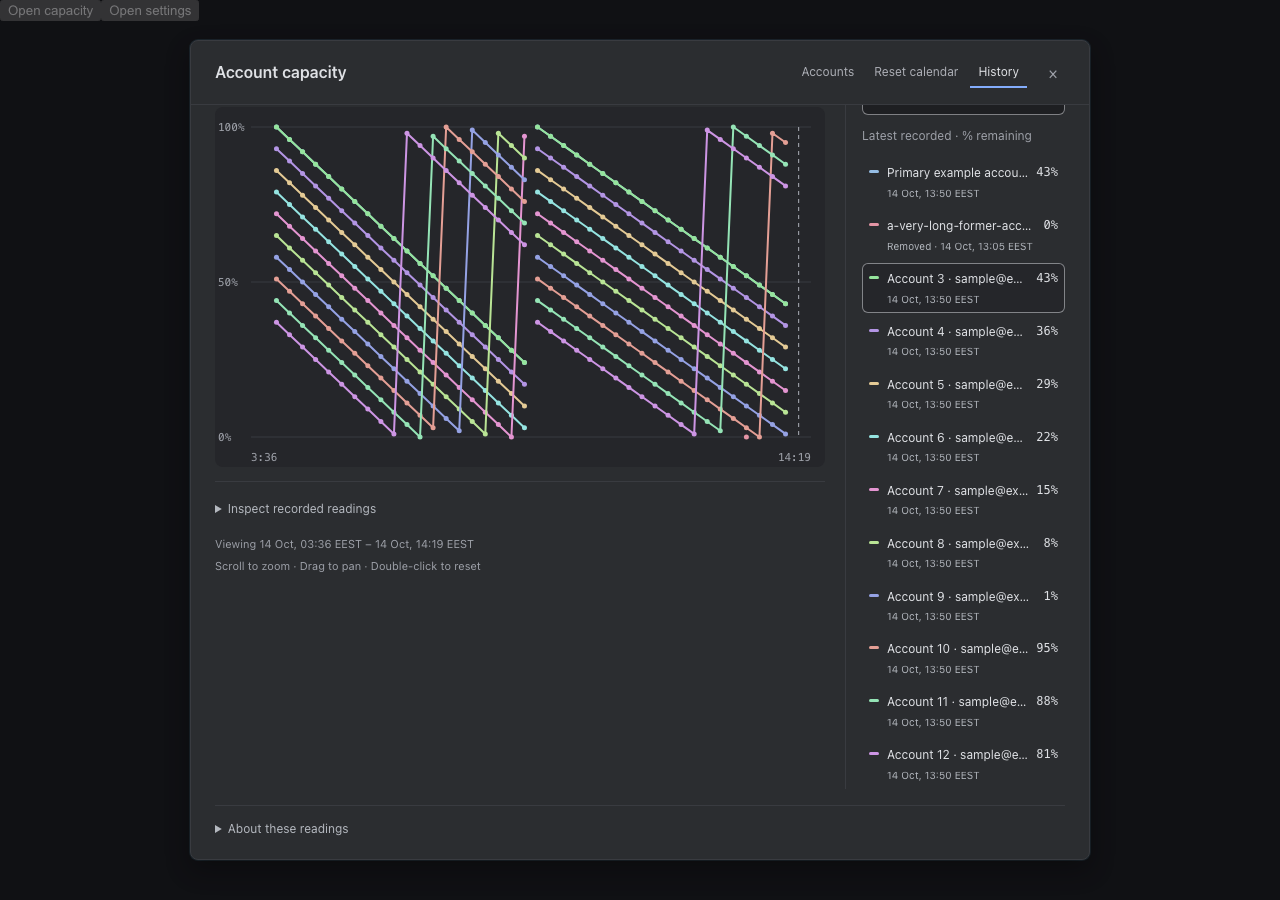
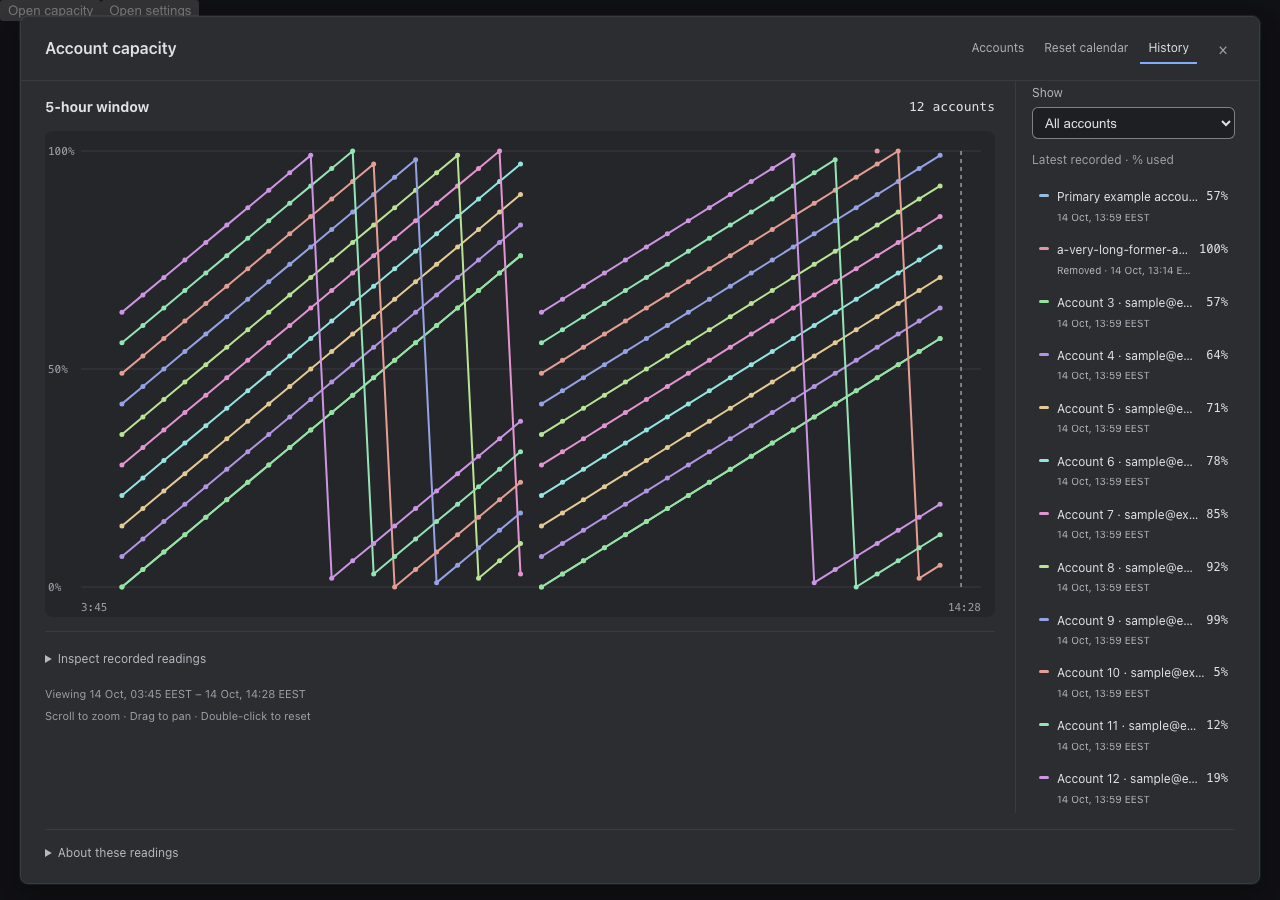
feat: give history charts more space
Widen the History dialog and adapt plot height to the viewport while restoring usage-consumed values throughout the studio. This gives account comparisons more room and makes 100 percent consistently mean exhausted capacity.

diff --git a/src/web/components/AccountHistoryView.tsx b/src/web/components/AccountHistoryView.tsx
@@ -40,12 +40,14 @@ function HistoryChart({
   const lastTap = useRef<{ x: number; y: number; at: number } | null>(null);
   const pointerKind = useRef("mouse");
   const [width, setWidth] = useState(750);
+  const [height, setHeight] = useState(440);
   useEffect(() => {
     const svg = chartRef.current;
     if (!svg) return;
-    const observer = new ResizeObserver(() =>
-      setWidth(Math.max(220, svg.clientWidth)),
-    );
+    const observer = new ResizeObserver(() => {
+      setWidth(Math.max(220, svg.clientWidth));
+      setHeight(Math.max(240, svg.clientHeight));
+    });
     observer.observe(svg);
     return () => observer.disconnect();
   }, []);
@@ -90,7 +92,7 @@ function HistoryChart({
   const tracked = hovered ?? (selected ? p : undefined);
   const visibleAccounts = new Set(values.map((p) => p.account.id)).size;
   const x = (t: number) => 36 + ((t - start) / (end - start)) * (width - 50);
-  const y = (used: number) => 20 + used * 3.1;
+  const y = (used: number) => height - 30 - (used / 100) * (height - 50);
   return (
     <section
       className="ah-chart"
@@ -102,18 +104,18 @@ function HistoryChart({
           {accounts.length > 1
             ? `${visibleAccounts} ${visibleAccounts === 1 ? "account" : "accounts"}`
             : w
-              ? `${100 - w.pct}% remaining`
+              ? `${w.pct}% used`
               : "No observations"}
         </span>
       </header>
-      <p className="ah-note">Capacity remaining</p>
+      <p className="ah-note">Capacity used</p>
       <div className="ah-plot-wrap">
         <svg
           ref={chartRef}
-          viewBox={`0 0 ${width} 360`}
+          viewBox={`0 0 ${width} ${height}`}
           role="group"
           tabIndex={0}
-          aria-label={`${window === "five_hour" ? "5-hour" : "7-day"} interactive capacity chart. Top is 100 percent remaining; bottom is zero remaining. Remaining capacity is 100 minus reported usage. Scroll to zoom, drag to pan, double-click to reset. Keyboard: plus or minus to zoom, left or right arrows to pan, zero to reset. Gaps indicate missing observations or changed reset windows.`}
+          aria-label={`${window === "five_hour" ? "5-hour" : "7-day"} interactive capacity chart. Top is 100 percent used (exhausted); bottom is zero used. Scroll to zoom, drag to pan, double-click to reset. Keyboard: plus or minus to zoom, left or right arrows to pan, zero to reset. Gaps indicate missing observations or changed reset windows.`}
           onDoubleClick={() => {
             if (pointerKind.current !== "touch") onReset();
           }}
@@ -243,7 +245,7 @@ function HistoryChart({
         >
           <defs>
             <clipPath id={clipId}>
-              <rect x="36" y="16" width={width - 50} height="318" />
+              <rect x="36" y="16" width={width - 50} height={height - 42} />
             </clipPath>
           </defs>
           {[0, 50, 100].map((v) => (
@@ -256,12 +258,12 @@ function HistoryChart({
                 className="ah-grid"
               />
               <text x="3" y={y(v) + 4}>
-                {100 - v}%
+                {v}%
               </text>
             </g>
           ))}
           {!accounts.some((a) => a.points.some((p) => p[window])) && (
-            <text x={width / 2} y="175" textAnchor="middle">
+            <text x={width / 2} y={height / 2} textAnchor="middle">
               No readings for this window
             </text>
           )}
@@ -281,7 +283,7 @@ function HistoryChart({
               x1={x(t * 1000)}
               x2={x(t * 1000)}
               y1="20"
-              y2="330"
+              y2={height - 30}
               className="ah-reset"
             >
               <title>Reported reset {stamp(t * 1000)}</title>
@@ -333,7 +335,7 @@ function HistoryChart({
                 x1={x(tracked.t)}
                 x2={x(tracked.t)}
                 y1="20"
-                y2="330"
+                y2={height - 30}
               />
               <circle
                 cx={x(tracked.t)}
@@ -345,10 +347,10 @@ function HistoryChart({
               />
             </g>
           )}
-          <text x="36" y="354">
+          <text x="36" y={height - 6}>
             {formatHistoryAxis(start, start, end)}
           </text>
-          <text x={width - 14} y="354" textAnchor="end">
+          <text x={width - 14} y={height - 6} textAnchor="end">
             {formatHistoryAxis(end, start, end)}
           </text>
         </svg>
@@ -366,8 +368,7 @@ function HistoryChart({
               {hovered.account.name}
             </strong>
             <b>
-              {Number((100 - hovered[window]!.pct).toFixed(2))}%{" "}
-              <span>remaining</span>
+              {Number(hovered[window]!.pct.toFixed(2))}% <span>used</span>
             </b>
             <span>Observed {stamp(hovered.t)}</span>
             <span>
@@ -578,7 +579,7 @@ export default function AccountHistoryView() {
                 >
                   7-day window
                 </button>
-                <span>Remaining capacity</span>
+                <span>Capacity used</span>
               </div>
               {!hasPoints ? (
                 <div className="ah-empty">
@@ -645,7 +646,7 @@ export default function AccountHistoryView() {
                   ))}
                 </select>
               </label>
-              <p className="ah-note">Latest recorded · % remaining</p>
+              <p className="ah-note">Latest recorded · % used</p>
               <div className="ah-legend" aria-label="Account legend">
                 {colored.map((a) => {
                   const latest = a.points
@@ -679,7 +680,7 @@ export default function AccountHistoryView() {
                       </span>
                       <span className="ah-account-value">
                         {latest
-                          ? `${Number((100 - latest[activeWindow]!.pct).toFixed(2))}%`
+                          ? `${Number(latest[activeWindow]!.pct.toFixed(2))}%`
                           : "—"}
                       </span>
                     </button>
@@ -691,7 +692,7 @@ export default function AccountHistoryView() {
           <details className="ah-data-notes">
             <summary>About these readings</summary>
             <p className="ah-note">
-              Remaining capacity is 100% minus reported usage, not token
+              Percentages describe reported capacity used, not token
               consumption. Missing readings remain gaps; reported reset times do
               not confirm renewed capacity. The time axis fits available
               readings. Dashed markers show reported resets.

diff --git a/src/web/components/account-history.css b/src/web/components/account-history.css
@@ -334,7 +334,7 @@
   border-radius: 8px;
 }
 .ah-redesign .ah-chart svg {
-  height: 360px;
+  height: clamp(320px, 54dvh, 540px);
   margin: 0;
 }
 .ah-tooltip {
@@ -508,5 +508,15 @@
 @media (max-width: 380px) {
   .ah-redesign .ah-legend {
     grid-template-columns: minmax(0, 1fr);
+  }
+}
+
+.ap-report-modal[data-view="history"] {
+  width: min(1240px, calc(100vw - 32px));
+  max-height: min(1040px, calc(100dvh - 32px));
+}
+@media (max-width: 700px) {
+  .ah-redesign .ah-chart svg {
+    height: 320px;
   }
 }

diff --git a/.impeccable/surfaces/account-usage-history.md b/.impeccable/surfaces/account-usage-history.md
@@ -8,17 +8,17 @@ Current built surface — 2026-10-14, #2104. **Mode: Operate.** History is a com
 
 The account rail combines identity, series color, latest recorded remaining capacity and observation time for the active window within the selected period. These values are recorded observations, never a claim of fresh or current capacity; they need not fall inside the zoomed interval. Unknown readings show a dash. Removed accounts remain selectable and labeled. Clicking a rail entry isolates its account; clicking again or choosing All accounts restores comparison. Colors identify accounts, not quota health.
 
-Direct inspection is primary. An immediate custom tooltip identifies the account, actual observation timestamp, remaining percentage and reported reset/unknown reset. A crosshair and point marker track the observation and other account series dim. The tooltip chooses actual observations rather than interpolated values. “Inspect recorded readings” is a secondary details disclosure with a labeled native selector; keyboard selection also tracks the point and highlights its account. Observation identity includes account and timestamp; unavailable selections fall back to the latest visible reading, and missing account selections return to All accounts. “About these readings” consolidates measurement caveats.
+Direct inspection is primary. An immediate custom tooltip identifies the account, actual observation timestamp, usage percentage and reported reset/unknown reset. A crosshair and point marker track the observation and other account series dim. The tooltip chooses actual observations rather than interpolated values. “Inspect recorded readings” is a secondary details disclosure with a labeled native selector; keyboard selection also tracks the point and highlights its account. Observation identity includes account and timestamp; unavailable selections fall back to the latest visible reading, and missing account selections return to All accounts. “About these readings” consolidates measurement caveats.
 
 ## Plot interaction and measurement truth
 
-The SVG is 360px high, with a 310px vertical data range. Capacity remaining is 100 minus recorded usage: 100% at the top, zero at the bottom. The inspector retains reported percentage used. Dashed reset markers describe reported times, never confirmed renewal or token consumption. Local dates carry timezone context. Missing windows remain unknown; lines break across missing readings, gaps exceeding 30 minutes and materially changed reset windows. Subsecond reset precision is tolerated up to one second relative to the segment’s first reset, without cumulative drift or changed stored timestamps. Rounded joins do not interpolate new readings.
+The History dialog is up to 1240px wide and viewport-constrained. SVG height is responsive (320–540px on desktop, 320px on narrow screens), with geometry derived from its actual measured height. The chart, rail, header and tooltip show reported capacity used: 0% at the bottom, 100% at the top means exhausted. The inspector uses the same measure. Dashed reset markers describe reported times, never confirmed renewal or token consumption. Local dates carry timezone context. Missing windows remain unknown; lines break across missing readings, gaps exceeding 30 minutes and materially changed reset windows. Subsecond reset precision is tolerated up to one second relative to the segment’s first reset, without cumulative drift or changed stored timestamps. Rounded joins do not interpolate new readings.
 
 The selected period is a maximum lookback; the time extent fits available observations with 5% padding, at least 15 minutes per edge. A single observation is centered in a 30-minute view. Both windows share zoom: wheel zooms around the pointer, horizontal wheel pans, drag pans when zoomed, and double-click resets. Touch double-tap enters a bounded 2× zoom; horizontal drag pans while zoomed and another double-tap resets. Vertical touch scrolling remains available. The focusable chart supports +/− zoom, left/right pan and 0/Home reset; keyboard focus underlines its heading. Zoom stays within available history with a five-minute minimum. Account/period changes reset it; refresh preserves and clamps the chosen absolute range. Scrolling outside the plot scrolls the dialog. Clipping and inspection preserve actual observations; visible-range status and empty intervals are explicit.
 
 ## Visual and responsive rules
 
-The desktop studio uses a flexible plot column and a 220px account rail separated by a quiet divider. Below 700px the rail follows the chart with two account columns; below 380px it becomes one column. Workspace padding reduces to 12px below 600px. The chart retains its height, and short dialogs scroll. Light and dark share the hierarchy.
+The desktop studio uses a flexible plot column and a 220px account rail separated by a quiet divider. Below 700px the rail follows the chart with two account columns; below 380px it becomes one column. Workspace padding reduces to 12px below 600px. The chart height adapts to the viewport, and short dialogs scroll. Light and dark share the hierarchy.
 
 Use incumbent panel/background/text tokens. Controls use `--ctl-edge`; guides and dividers use `--line`. Measurements use `--font-mono` with tabular numerals. The workspace heading is 18px, chart headings 14px, and supporting text stays subordinate. Selected window and account controls use the existing soft background and control edge; selectors, disclosure summaries and buttons have visible keyboard focus. No new global design rules are established here.
 
@@ -39,3 +39,5 @@ Parent-reported verification: **68 tests / four files passed** (snapshot unit, p
 ## Superseded design history
 
 Earlier iterations stacked both charts, used a top legend and native SVG titles, and exposed observation selectors as primary inspection. Later refinements introduced fitted time axes, connected observations, shared direct zoom and remaining-capacity orientation. The comparative studio described above supersedes those layouts, the earlier 290px/240px chart dimensions and old touch-verification caveats; measurement and persistence safeguards remain.
+
+Owner refinement: widened History only, enlarged the responsive plot and restored usage-consumed orientation. Browser checks verify the wider desktop dialog, responsive bounds, 100% at the top and consistent tooltip/rail values; TypeScript and production build passed. Existing comparison, gestures and data logic remain intact.

diff --git a/docs/features/account-usage-history-2104.md b/docs/features/account-usage-history-2104.md
@@ -6,13 +6,13 @@ Current built behavior and handoff — 14 October 2026.
 
 Claude account snapshots are enabled by default. Settings → Account history can pause recording, show actual file size, clear snapshots with confirmation, and select 30/60/90-day retention (30 by default). Shortening retention warns before older readings are removed; retention still applies while paused. Removed accounts retain readings until pruning or clear.
 
-Account capacity retains Accounts and Reset calendar and adds History. The built History view is a comparative studio: one visible 5-hour or 7-day plot, an adjacent account rail and a period selector. It defaults to All accounts, the 5-hour window and seven days; longer periods follow retention. The rail shows each account’s latest recorded remaining percentage and observation time for the active window within the period, independently of the zoomed interval. Missing readings show a dash; removed accounts are labeled. These values do not claim current or fresh capacity. Clicking an account isolates it; clicking again or choosing All accounts restores comparison. Account colors remain consistent between windows.
+Account capacity retains Accounts and Reset calendar and adds History. The built History view is a comparative studio: one visible 5-hour or 7-day plot, an adjacent account rail and a period selector. It defaults to All accounts, the 5-hour window and seven days; longer periods follow retention. The rail shows each account’s latest recorded usage percentage and observation time for the active window within the period, independently of the zoomed interval. Missing readings show a dash; removed accounts are labeled. These values do not claim current or fresh capacity. Clicking an account isolates it; clicking again or choosing All accounts restores comparison. Account colors remain consistent between windows.
 
 Only one window is visible at a time; the shared absolute-time zoom survives switching between them. This reduces scrolling for comparison while requiring a window switch to inspect the other quota. No new dependencies or major product/brand changes were introduced, and the source collection, persistence, retention and usage business logic is unchanged.
 
 ## Inspection and navigation
 
-The chart is a 360px SVG with a 310px vertical data range. It displays **capacity remaining**, derived as 100 minus reported usage, with full capacity at the top and exhausted capacity at the bottom. An immediate custom tooltip shows the account, actual observation time, remaining percentage and reported reset or unknown reset. A crosshair and marker track the actual observation and dim other series; hover does not invent interpolated readings.
+The History dialog is up to 1240px wide, constrained to the viewport. The chart height follows the viewport (320–540px on desktop, 320px on narrow screens); its SVG coordinates follow the measured height. It displays **capacity used**, with 0% at the bottom and 100% (exhausted) at the top. Sidebar, header and tooltip values use the same reported usage measure. An immediate custom tooltip shows the account, actual observation time, usage percentage and reported reset or unknown reset. A crosshair and marker track the actual observation and dim other series; hover does not invent interpolated readings.
 
 The secondary “Inspect recorded readings” details disclosure contains a labeled keyboard-accessible native observation selector. It lists actual readings within the visible interval, retaining percentage used, and keyboard selection tracks the same point and account highlight. Keys include account identity and timestamp; unavailable selections fall back to the latest visible reading. A disappeared account selection falls back to All accounts. “About these readings” preserves uncertainty in progressive disclosure. Dates use browser local time with timezone context.
 
@@ -52,3 +52,5 @@ Capture directory: `.impeccable/review/2104/`. Current evidence: `desktop.png`, 
 ## Earlier iterations
 
 The original surface stacked two charts with a top legend, native SVG-title inspection and primary observation selectors. Subsequent work added fitted time extents, reset-jitter tolerance, shared direct zoom and remaining-capacity orientation. The current comparative studio supersedes that composition, its 290px/240px chart sizing and its earlier unverified-touch status. Earlier test totals describe earlier scopes; the latest verification above is the current handoff evidence.
+
+Owner refinement: widened History only, enlarged the responsive plot and restored usage-consumed orientation. Browser checks verify the wider desktop dialog, responsive bounds, 100% at the top and consistent tooltip/rail values; TypeScript and production build passed. Existing comparison, gestures and data logic remain intact.
